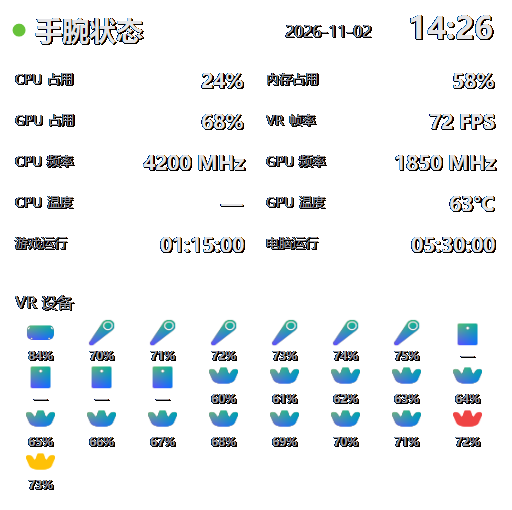
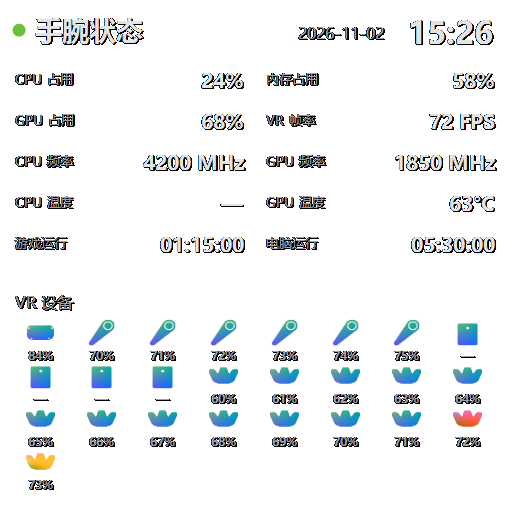
Match VRCX device status colors and align wrist clock

diff --git a/Program.cs b/Program.cs
@@ -339,6 +339,7 @@ namespace WristLite
         private const int Width = 512;
         private const int Height = 510;
         private static readonly Dictionary<string, Bitmap> Icons = new Dictionary<string, Bitmap>();
+        private static readonly Dictionary<string, Bitmap> StatusIcons = new Dictionary<string, Bitmap>();
 
         public static Bitmap Draw(Settings settings, PanelData data)
         {
@@ -376,10 +377,16 @@ namespace WristLite
                 }
                 int titleX = settings.MiniIcon ? 31 : 12;
                 ShadowText(g, "手腕状态", title, white, titleX, 13);
-                using (StringFormat far = new StringFormat { Alignment = StringAlignment.Far })
+                using (StringFormat far = new StringFormat
                 {
-                    ShadowText(g, data.Date, small, muted, new RectangleF(222, 20, 151, 29), far);
-                    ShadowText(g, data.Clock, clock, white, new RectangleF(380, 7, 118, 42), far);
+                    Alignment = StringAlignment.Far,
+                    LineAlignment = StringAlignment.Center
+                })
+                {
+                    var headerLine = new RectangleF(235, 10, 151, 47);
+                    ShadowText(g, data.Date, small, muted, headerLine, far);
+                    ShadowText(g, data.Clock, clock, white,
+                        new RectangleF(380, headerLine.Y, 118, headerLine.Height), far);
                 }
                 Divider(g, 62);
 
@@ -413,12 +420,12 @@ namespace WristLite
                         int cellY = compact ? devicesTop + 26 + row * 43
                             : devicesTop + (count <= columns ? 50 : 25) + row * 72;
                         DeviceInfo device = data.Devices[i];
-                        Bitmap icon = GetIcon(IconName(device));
+                        Bitmap icon = GetDeviceIcon(device);
                         int iconWidth = compact ? 33 : 50;
                         int iconHeight = compact ? 29 : 43;
                         if (icon != null) DrawIconFit(g, icon,
                             new Rectangle(cellX + (cellWidth - iconWidth) / 2, cellY,
-                                iconWidth, iconHeight), DeviceIconTint(device));
+                                iconWidth, iconHeight));
                         using (StringFormat center = new StringFormat { Alignment = StringAlignment.Center })
                             ShadowText(g, DeviceBatteryText(device), compact ? compactDeviceFont : deviceFont,
                                 muted,
@@ -486,12 +493,11 @@ namespace WristLite
                             int x = 37 + col * 93;
                             int y = 154 + row * (compact ? 51 : 78);
                             DeviceInfo device = data.Devices[i];
-                            Bitmap icon = GetIcon(IconName(device));
+                            Bitmap icon = GetDeviceIcon(device);
                             int iconWidth = compact ? 36 : 50;
                             int iconHeight = compact ? 31 : 46;
                             if (icon != null) DrawIconFit(g, icon,
-                                new Rectangle(x + (92 - iconWidth) / 2, y, iconWidth, iconHeight),
-                                DeviceIconTint(device));
+                                new Rectangle(x + (92 - iconWidth) / 2, y, iconWidth, iconHeight));
                             g.DrawString(DeviceBatteryText(device), compact ? compactDeviceFont : deviceFont,
                                 white,
                                 new RectangleF(x, y + iconHeight, 92, compact ? 19 : 26), center);
@@ -515,34 +521,85 @@ namespace WristLite
             return device.Battery < 0 ? "—" : device.Battery + "%";
         }
 
-        internal static Color? DeviceIconTint(DeviceInfo device)
+        internal static int DeviceIconState(DeviceInfo device)
         {
-            if (!device.Connected) return Color.FromArgb(239, 68, 68);
-            if (!device.Tracked) return Color.FromArgb(255, 193, 7);
-            return null;
+            return !device.Connected ? 2 : !device.Tracked ? 1 : 0;
         }
 
-        private static void DrawIconFit(Graphics g, Bitmap icon, Rectangle bounds, Color? tint = null)
+        private static void DrawIconFit(Graphics g, Bitmap icon, Rectangle bounds)
         {
             float scale = Math.Min((float)bounds.Width / icon.Width, (float)bounds.Height / icon.Height);
             int width = Math.Max(1, (int)Math.Round(icon.Width * scale));
             int height = Math.Max(1, (int)Math.Round(icon.Height * scale));
             var destination = new Rectangle(bounds.X + (bounds.Width - width) / 2,
                 bounds.Y + (bounds.Height - height) / 2, width, height);
-            if (!tint.HasValue) { g.DrawImage(icon, destination); return; }
-            Color color = tint.Value;
-            using (var attributes = new ImageAttributes())
+            g.DrawImage(icon, destination);
+        }
+
+        private static Bitmap GetDeviceIcon(DeviceInfo device)
+        {
+            int state = DeviceIconState(device);
+            string file = IconName(device);
+            // VRCX filters the coloured ready artwork; a grey off icon cannot become red.
+            if (state == 2 && file.EndsWith("_off.png", StringComparison.Ordinal))
+                file = file.Substring(0, file.Length - "_off.png".Length) + "_ready.png";
+            Bitmap original = GetIcon(file);
+            if (original == null || state == 0) return original;
+            string key = file + "|" + state;
+            Bitmap tinted;
+            if (!StatusIcons.TryGetValue(key, out tinted))
+                StatusIcons[key] = tinted = ApplyVrcxStatusFilter(original, state);
+            return tinted;
+        }
+
+        // VRCX src/vr/vr.css: warning = saturate(250%) brightness(151%)
+        // hue-rotate(221deg); error = saturate(160%) brightness(88%)
+        // hue-rotate(161deg), with 90% icon opacity. Keep the artwork's gradients.
+        internal static Bitmap ApplyVrcxStatusFilter(Bitmap source, int state)
+        {
+            double saturation = state == 1 ? 2.5 : 1.6;
+            double brightness = state == 1 ? 1.51 : 0.88;
+            double radians = (state == 1 ? 221 : 161) * Math.PI / 180.0;
+            double cosine = Math.Cos(radians);
+            double sine = Math.Sin(radians);
+            var result = new Bitmap(source.Width, source.Height, PixelFormat.Format32bppArgb);
+            for (int y = 0; y < source.Height; y++)
             {
-                attributes.SetColorMatrix(new ColorMatrix(new[] {
-                    new float[] { 0, 0, 0, 0, 0 },
-                    new float[] { 0, 0, 0, 0, 0 },
-                    new float[] { 0, 0, 0, 0, 0 },
-                    new float[] { 0, 0, 0, 1, 0 },
-                    new float[] { color.R / 255f, color.G / 255f, color.B / 255f, 0, 1 }
-                }));
-                g.DrawImage(icon, destination, 0, 0, icon.Width, icon.Height,
-                    GraphicsUnit.Pixel, attributes);
+                for (int x = 0; x < source.Width; x++)
+                {
+                    Color pixel = source.GetPixel(x, y);
+                    if (pixel.A == 0) continue;
+                    double r = ClampChannel(ClampChannel(pixel.R * (0.213 + 0.787 * saturation)
+                        + pixel.G * (0.715 - 0.715 * saturation)
+                        + pixel.B * (0.072 - 0.072 * saturation)) * brightness);
+                    double g = ClampChannel(ClampChannel(pixel.R * (0.213 - 0.213 * saturation)
+                        + pixel.G * (0.715 + 0.285 * saturation)
+                        + pixel.B * (0.072 - 0.072 * saturation)) * brightness);
+                    double b = ClampChannel(ClampChannel(pixel.R * (0.213 - 0.213 * saturation)
+                        + pixel.G * (0.715 - 0.715 * saturation)
+                        + pixel.B * (0.072 + 0.928 * saturation)) * brightness);
+                    int red = (int)Math.Round(ClampChannel(
+                        r * (0.213 + 0.787 * cosine - 0.213 * sine)
+                        + g * (0.715 - 0.715 * cosine - 0.715 * sine)
+                        + b * (0.072 - 0.072 * cosine + 0.928 * sine)));
+                    int green = (int)Math.Round(ClampChannel(
+                        r * (0.213 - 0.213 * cosine + 0.143 * sine)
+                        + g * (0.715 + 0.285 * cosine + 0.140 * sine)
+                        + b * (0.072 - 0.072 * cosine - 0.283 * sine)));
+                    int blue = (int)Math.Round(ClampChannel(
+                        r * (0.213 - 0.213 * cosine - 0.787 * sine)
+                        + g * (0.715 - 0.715 * cosine + 0.715 * sine)
+                        + b * (0.072 + 0.928 * cosine + 0.072 * sine)));
+                    result.SetPixel(x, y, Color.FromArgb(
+                        (int)Math.Round(pixel.A * 0.9), red, green, blue));
+                }
             }
+            return result;
+        }
+
+        private static double ClampChannel(double value)
+        {
+            return Math.Max(0, Math.Min(255, value));
         }
 
         private static List<KeyValuePair<string, string>> Metrics(Settings settings, PanelData data)

diff --git a/TriggerTests.cs b/TriggerTests.cs
@@ -139,9 +139,29 @@ namespace WristLite
             Expect(Renderer.DeviceBatteryText(offline) == "72%" &&
                 Renderer.DeviceBatteryText(lost) == "73%" &&
                 Renderer.DeviceBatteryText(normal) == "—", "battery label does not become tracking state");
-            Expect(Renderer.DeviceIconTint(offline).Value.R > 200 &&
-                Renderer.DeviceIconTint(lost).Value.G > 150 &&
-                !Renderer.DeviceIconTint(normal).HasValue, "icon color reflects tracking state");
+            Expect(Renderer.DeviceIconState(offline) == 2 &&
+                Renderer.DeviceIconState(lost) == 1 &&
+                Renderer.DeviceIconState(normal) == 0, "icon color reflects tracking state");
+            using (var source = new Bitmap(1, 3, PixelFormat.Format32bppArgb))
+            {
+                source.SetPixel(0, 0, Color.FromArgb(51, 174, 145));
+                source.SetPixel(0, 1, Color.Transparent);
+                source.SetPixel(0, 2, Color.FromArgb(52, 151, 176));
+                using (var yellow = Renderer.ApplyVrcxStatusFilter(source, 1))
+                using (var red = Renderer.ApplyVrcxStatusFilter(source, 2))
+                {
+                    Color warning = yellow.GetPixel(0, 0);
+                    Color error = red.GetPixel(0, 0);
+                    Expect(warning.R > warning.G && warning.G > warning.B &&
+                        warning.A == 230 &&
+                        yellow.GetPixel(0, 0) != yellow.GetPixel(0, 2) &&
+                        yellow.GetPixel(0, 1).A == 0, "VRCX warning filter keeps artwork detail");
+                    Expect(error.R > error.B && error.B > error.G &&
+                        error.A == 230 &&
+                        red.GetPixel(0, 0) != red.GetPixel(0, 2) &&
+                        red.GetPixel(0, 1).A == 0, "VRCX error filter keeps artwork detail");
+                }
+            }
             foreach (string appearance in new[] { "classic", "vrcx" })
             {
                 Expect(!RenderDevices(appearance, 24).SequenceEqual(RenderDevices(appearance, 25)),

diff --git a/README.md b/README.md
@@ -14,7 +14,7 @@
 - 可选双手、左手或右手，以及握持键或菜单键。
 - 可选“第一版（宽屏）”或“VRCX 素材（方形）”；首次使用默认第一版。
 - 在同一行显示年月日和时间，日期位于时间左侧；显示 VR 设备的图标、电量、连接与追踪状态；CPU、内存和 GPU 占用率，CPU 与 GPU 频率、温度，VR 帧率，以及 VRChat 和电脑运行时长。各项可在设置中开关。
-- 设备图标用颜色表示追踪状态：正常时使用原图，丢追时为黄色，断开时为红色。图标下方始终显示电量百分比；设备不提供电量时显示“—”。已知设备断开后保留最近一次读取到的电量。如果 SteamVR 把设备从列表中移除，程序会在本次运行期间保留其离线图标。
+- 设备图标用颜色表示追踪状态：正常时使用原图，丢追和断开时分别采用 VRCX 的警告和异常图标滤镜。图标下方始终显示电量百分比；设备不提供电量时显示“—”。已知设备断开后保留最近一次读取到的电量。如果 SteamVR 把设备从列表中移除，程序会在本次运行期间保留其离线图标。
 - 两种界面最多显示 25 个 VR 设备图标。设备较多时自动缩小图标和状态字号，以容纳头显、手柄、追踪器和基站。
 - 参考 VRCX-0 的叠加层刷新顺序：将新画面上传到隐藏的叠加层，等待 SteamVR 的 `ImageLoaded` 事件后才显示新画面并隐藏旧画面；若收到 `ImageFailed` 则保留旧画面。这针对先前每秒刷新的闪动问题。程序会阻止同时运行多个 VRWristLite 或旧版 WristLite 实例。
 - 保留上一版的简洁设置窗口与原生下拉框；独立设计的程序图标已嵌入程序。
@@ -49,7 +49,7 @@
 - VR 帧率来自 SteamVR 合成器的帧计时，不保证与 VRChat 调试菜单显示的帧率完全一致。
 - VRChat 官方 OSC 未提供截图中“纹理缓存”数值的接口；程序不显示虚构或本地文件大小冒充的缓存值。
 - 当前使用 OpenVR 的旧式控制器按键状态。若控制器只提供 OpenXR 输入或 SteamVR 按键映射未将按键暴露给旧式 API，唤出可能无效。
-- 已完成编译、自动逻辑检查和静态画面检查。用户已在头显中实测此版本，目前未发现问题；后续设备及 SteamVR 版本可能存在兼容差异。
+- 已完成编译、自动逻辑检查和静态画面检查。用户已在头显中实测基础版本；本次设备数量、状态配色和日期位置更新尚待头显实测。
 - 游戏运行时间来自本机 VRChat 进程启动时间；不会显示好友、房间或 VRChat 账号内容。
 
 ## 源码与许可

diff --git a/THIRD_PARTY_NOTICES.md b/THIRD_PARTY_NOTICES.md
@@ -7,4 +7,4 @@ WristLite 的自有代码采用 [MIT 许可](LICENSE)。以下文件保留原项
 | `assets/*.png` 中的 VR 设备图标 | [VRCX](https://github.com/vrcx-team/VRCX/tree/master/src/public/images/vr) | [MIT](LICENSE-VRCX.txt) |
 | `OpenVR.cs` C# 绑定 | [Valve OpenVR，经 VRCX 仓库发布](https://github.com/vrcx-team/VRCX/blob/master/Dotnet/Overlay/OpenVR/openvr_api.cs) | [Valve BSD 三条款](LICENSE-OpenVR.txt) |
 
-腕部摆放和按键映射参考了 VRCX。叠加层在收到 `ImageLoaded` 后再切换的顺序参考了 [VRCX-0](https://github.com/Map1en/VRCX-0/blob/master/crates/host-desktop/src/vr_overlay/openvr_backend.rs)；项目未复制 VRCX-0 的 GPL 源码。
+腕部摆放、按键映射，以及设备图标的警告和异常[滤镜参数](https://github.com/vrcx-team/VRCX/blob/master/src/vr/vr.css)参考了 VRCX。叠加层在收到 `ImageLoaded` 后再切换的顺序参考了 [VRCX-0](https://github.com/Map1en/VRCX-0/blob/master/crates/host-desktop/src/vr_overlay/openvr_backend.rs)；项目未复制 VRCX-0 的 GPL 源码。

diff --git a/RELEASE_NOTES.md b/RELEASE_NOTES.md
@@ -3,8 +3,9 @@
 将电量和追踪状态分开展示，让设备状态更容易辨认。
 
 - 图标下方始终显示电量百分比；无法读取电量时显示“—”。
-- 丢追设备图标显示黄色，断开设备图标显示红色；断开时保留最近一次电量读数。
+- 丢追与断开设备图标分别采用 VRCX 手腕菜单的警告和异常滤镜；断开时保留最近一次电量读数。
 - 正常连接的低电量设备不再使用红色图标，避免与断开状态混淆。
 - 延续 v1.0.1 的最多 25 个设备布局。
+- 方形界面的日期和时间改为同一行居中对齐，并缩短两者间距。
 
 已在 Windows 上完成构建、自动检查和静态画面检查。此版本尚待头显实测。
